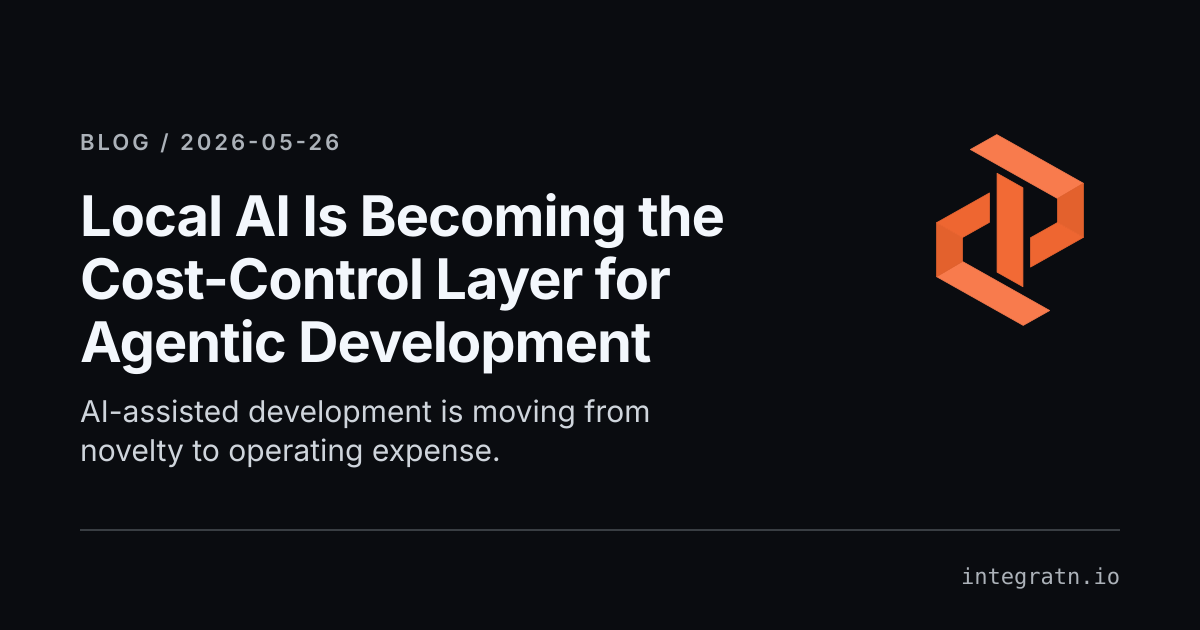
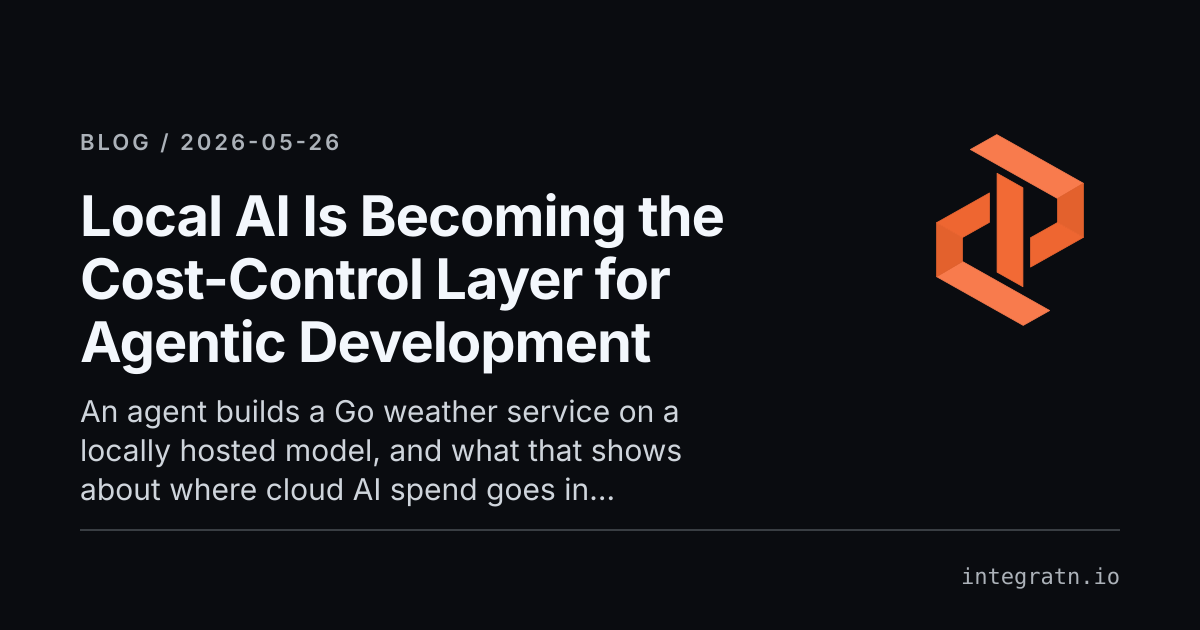
fix(blog): bold file-name captions in Docker Training 8, a real description for the local AI post
Medium bolds a whole inline code run when a file name captions the block
that follows, and markdownify drops styling inside code; the converter puts
it back. The local AI post's description was its own first sentence; it now
says what the post is, and its share card follows.

Claude-Session: https://claude.ai/code/session_012HBJmD6jJL8xDejNd19Yw1

Changed region(s): [[0.0617, 0.6333, 0.5858, 0.8143]]

diff --git a/src/content/posts/docker-series/docker-training-8.md b/src/content/posts/docker-series/docker-training-8.md
@@ -57,7 +57,7 @@ Create these files as we go.
 We will use `net/http` + `github.com/gorilla/mux` and `github.com/lib/pq`.  
 **Note:** We will auto-create the table if it does not exist (helpful on first boot).
 
-`api/main.go`
+**`api/main.go`**
 
 ```go
 package main
@@ -254,7 +254,7 @@ Run `go mod tidy` locally if you are hacking outside the container.
 
 We stay consistent with Training 7: compile in a builder, copy just the artifact into a tiny runtime.
 
-`api/Dockerfile`
+**`api/Dockerfile`**
 
 ```dockerfile
 # Build stage
@@ -282,7 +282,7 @@ ENTRYPOINT ["/api"]
 
 ## Postgres with init SQL
 
-Use the official image and seed schema via the built-in init hook. `db/init/01_create_users.sql`
+Use the official image and seed schema via the built-in init hook. **`db/init/01_create_users.sql`**
 
 ```sql
 CREATE TABLE IF NOT EXISTS users (
@@ -294,7 +294,7 @@ CREATE TABLE IF NOT EXISTS users (
 
 ## Compose it together
 
-Two services, one volume, a tiny userland API. The `depends_on` helps with order, and a healthcheck makes local DX nicer. `docker-compose.yml`
+Two services, one volume, a tiny userland API. The `depends_on` helps with order, and a healthcheck makes local DX nicer. **`docker-compose.yml`**
 
 ```yaml
 version: "3.9"

diff --git a/src/content/posts/2026-05-26-local-ai-cost-control-layer-for-agentic-development.md b/src/content/posts/2026-05-26-local-ai-cost-control-layer-for-agentic-development.md
@@ -5,7 +5,7 @@ tags: [ai, ai-agent, local-llm, lm-studio, github-copilot]
 categories: [workflow, devops]
 heroImage: /og/blog/2026-05-26-local-ai-cost-control-layer-for-agentic-development.png
 card: /og/blog/2026-05-26-local-ai-cost-control-layer-for-agentic-development.png
-description: "AI-assisted development is moving from novelty to operating expense."
+description: "An agent builds a Go weather service on a locally hosted model, and what that shows about where cloud AI spend goes in iteration-heavy development."
 ---
 
 ![Local AI Is Becoming the Cost-Control Layer for Agentic Development](/og/blog/2026-05-26-local-ai-cost-control-layer-for-agentic-development.png)
